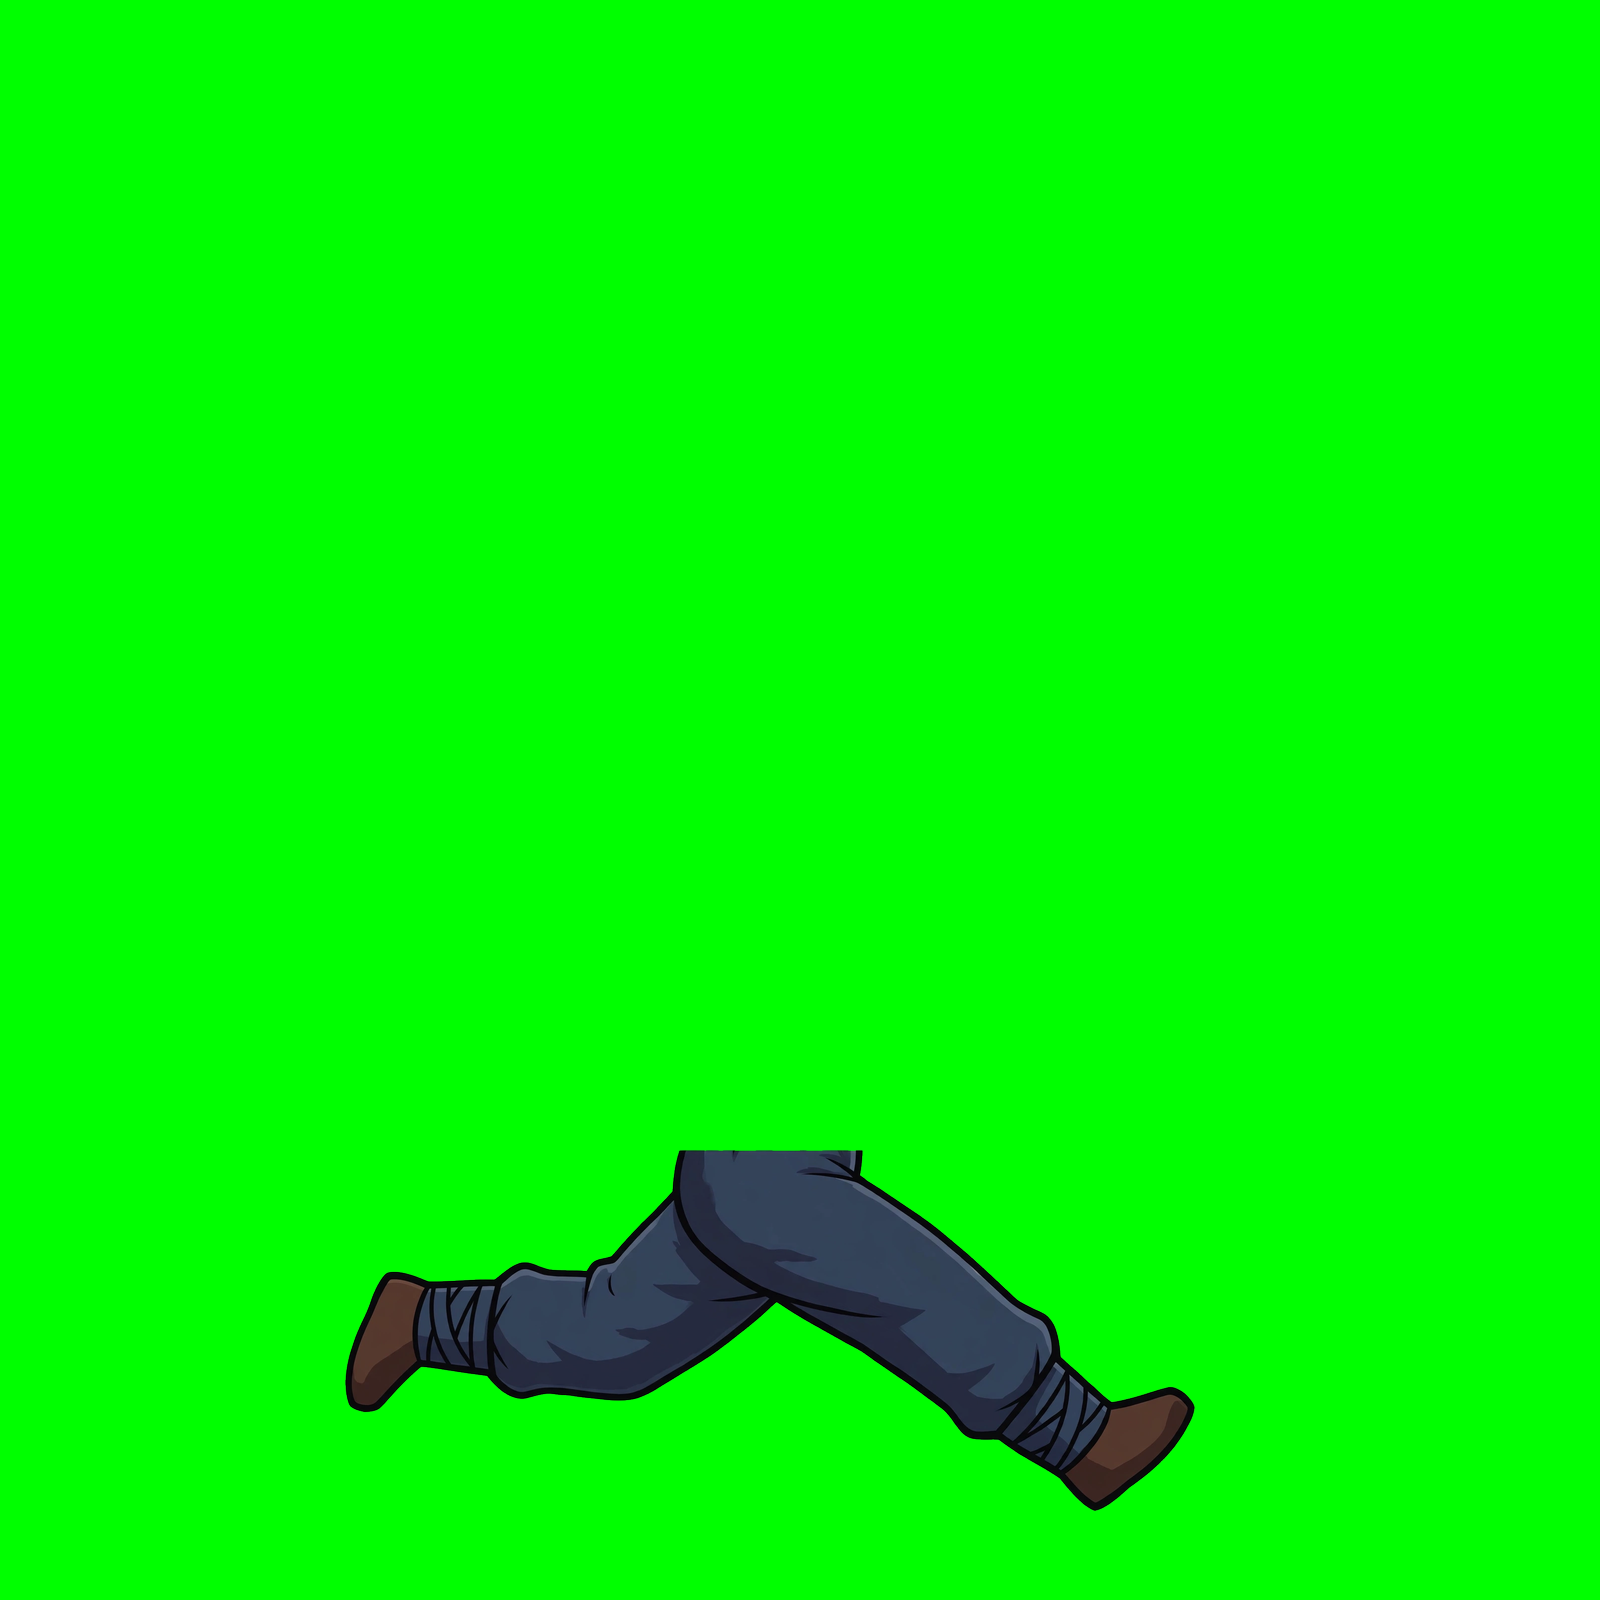
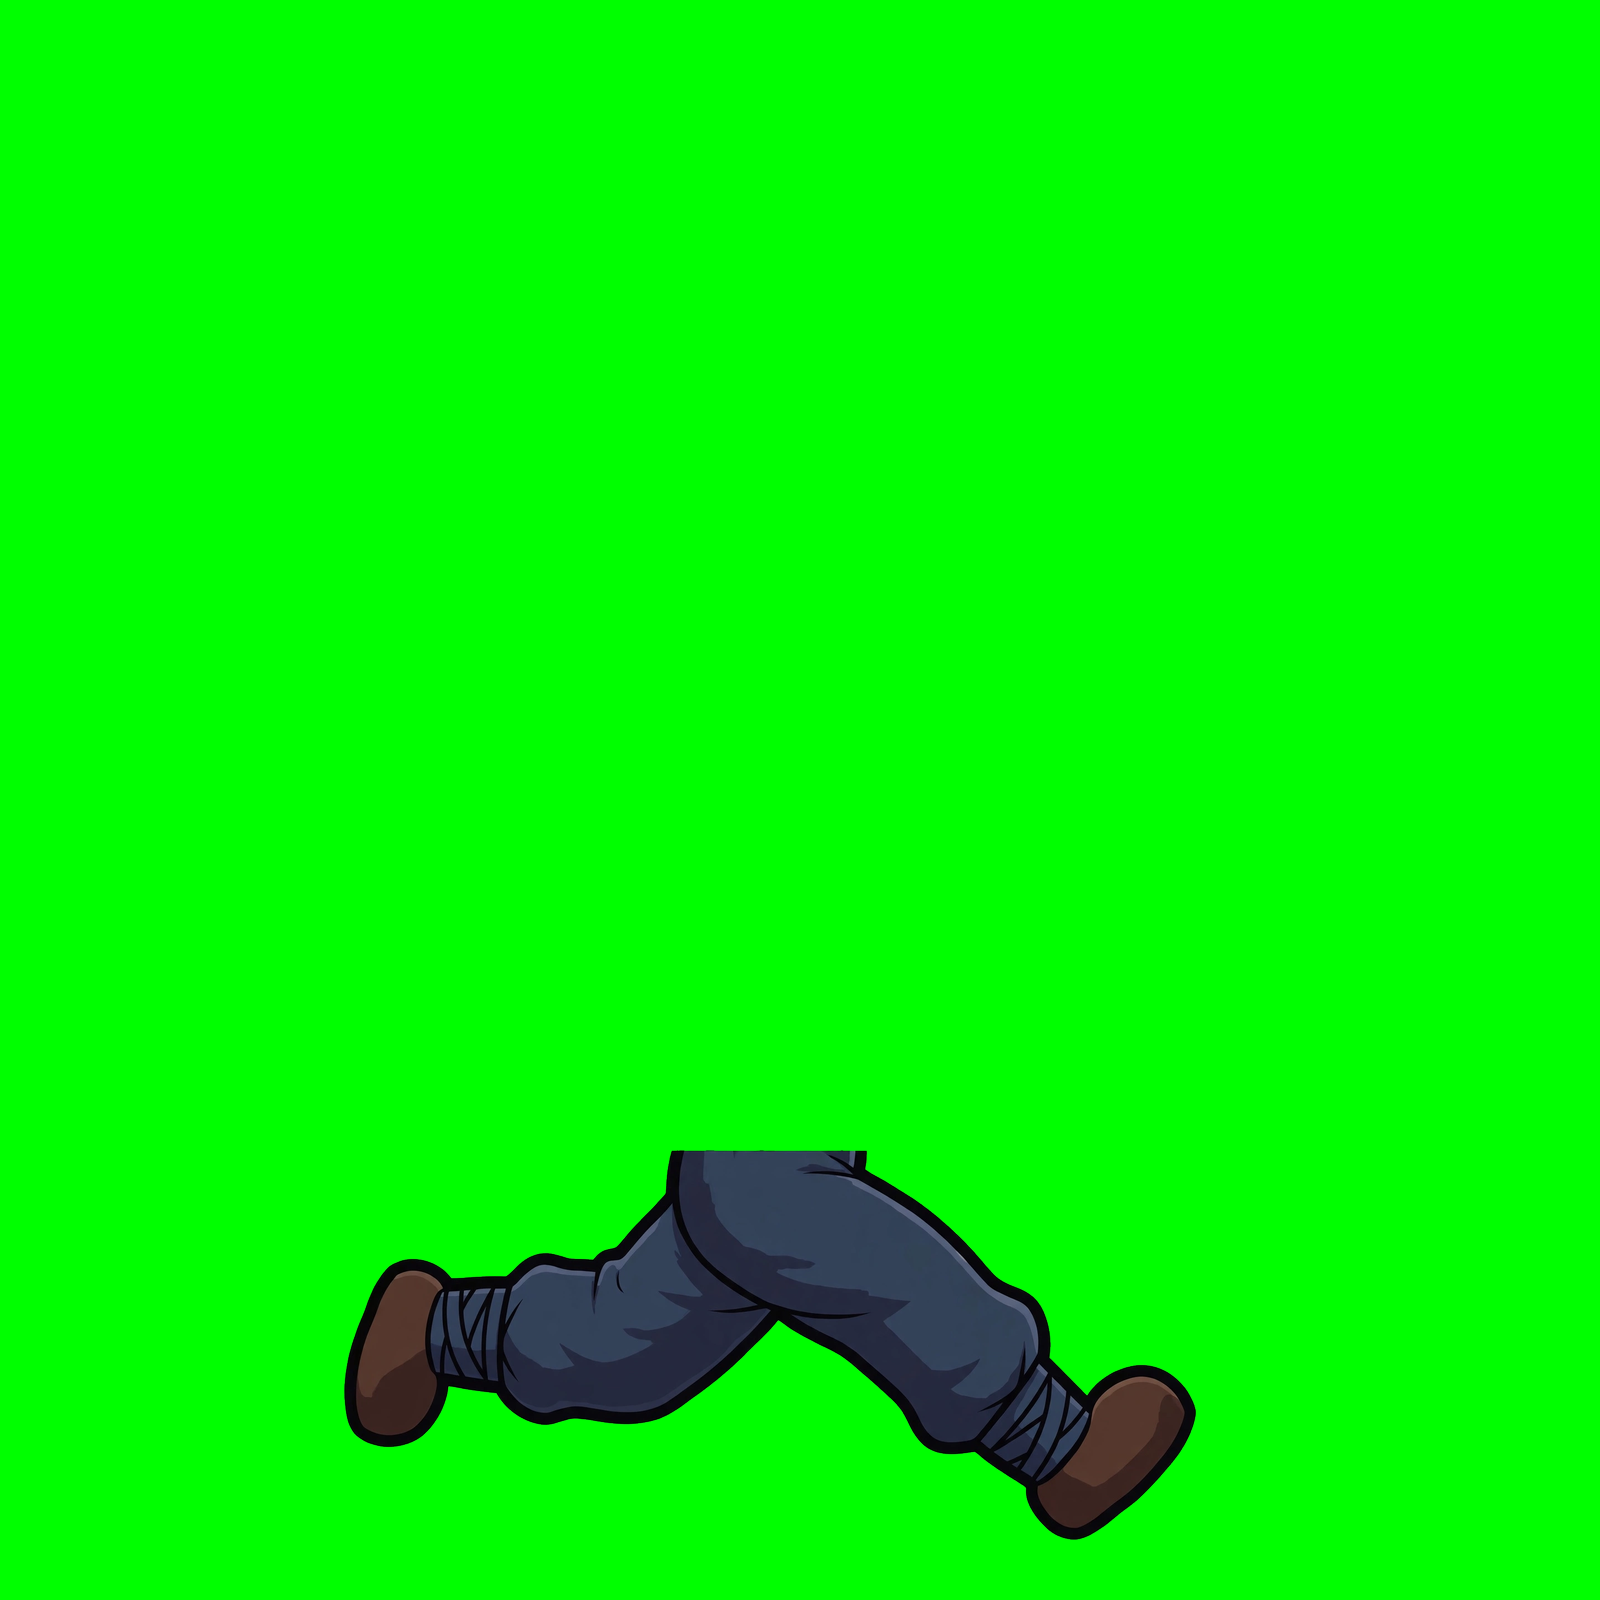
art: cập nhật mảnh đứng và chạy, thêm bảng vị trí
Claude-Session: https://claude.ai/code/session_01H5HbWC5YWGGEE4VrcfLNDJ

Changed region(s): [[0.2188, 0.7188, 0.75, 0.9688], [0.5, 0.7188, 0.5625, 0.75], [0.5625, 0.75, 0.5938, 0.7812]]

diff --git a/docs/05_log.md b/docs/05_log.md
@@ -579,3 +579,8 @@ Avoid: Japanese covert-warrior or samurai clothing, katanas, Chinese imperial dr
 
 - Thêm `chr_dbl_kiem/manh/dbl_33.png`, `dbl_6.png`, `dbl_24.png`, `dbl_25.png`, do người dùng tạo bằng Muse AI, theo lời nhắc Claude soạn. Chưa duyệt.
 - Đo: đầu 33 cùng khung và vị trí với đầu 32. Điểm cần xử lý: mắt đầu 33 khác đầu 32; `dbl_24` chạm mép dưới ảnh; thân chưa có cổ.
+
+## 06/11/2026 — bộ dbl: mảnh sửa và bảng vị trí
+
+- Thay `dbl_32` (mắt thường), `dbl_6` (có cổ), `dbl_25`; thêm `manh/vi_tri.json`. Người dùng duyệt bộ đứng với đầu nâng 24 px. Do người dùng tạo bằng Muse AI, theo lời nhắc Claude soạn.
+- Đo diện tích giày trung bình: `dbl_23` 9.204 px², `dbl_25` mới 10.784 px². Bản `chan_24` vừa nhận chỉ 4.024 px², không lưu; `dbl_24` trên nhánh vẫn là bản tạm, cần vẽ lại.
